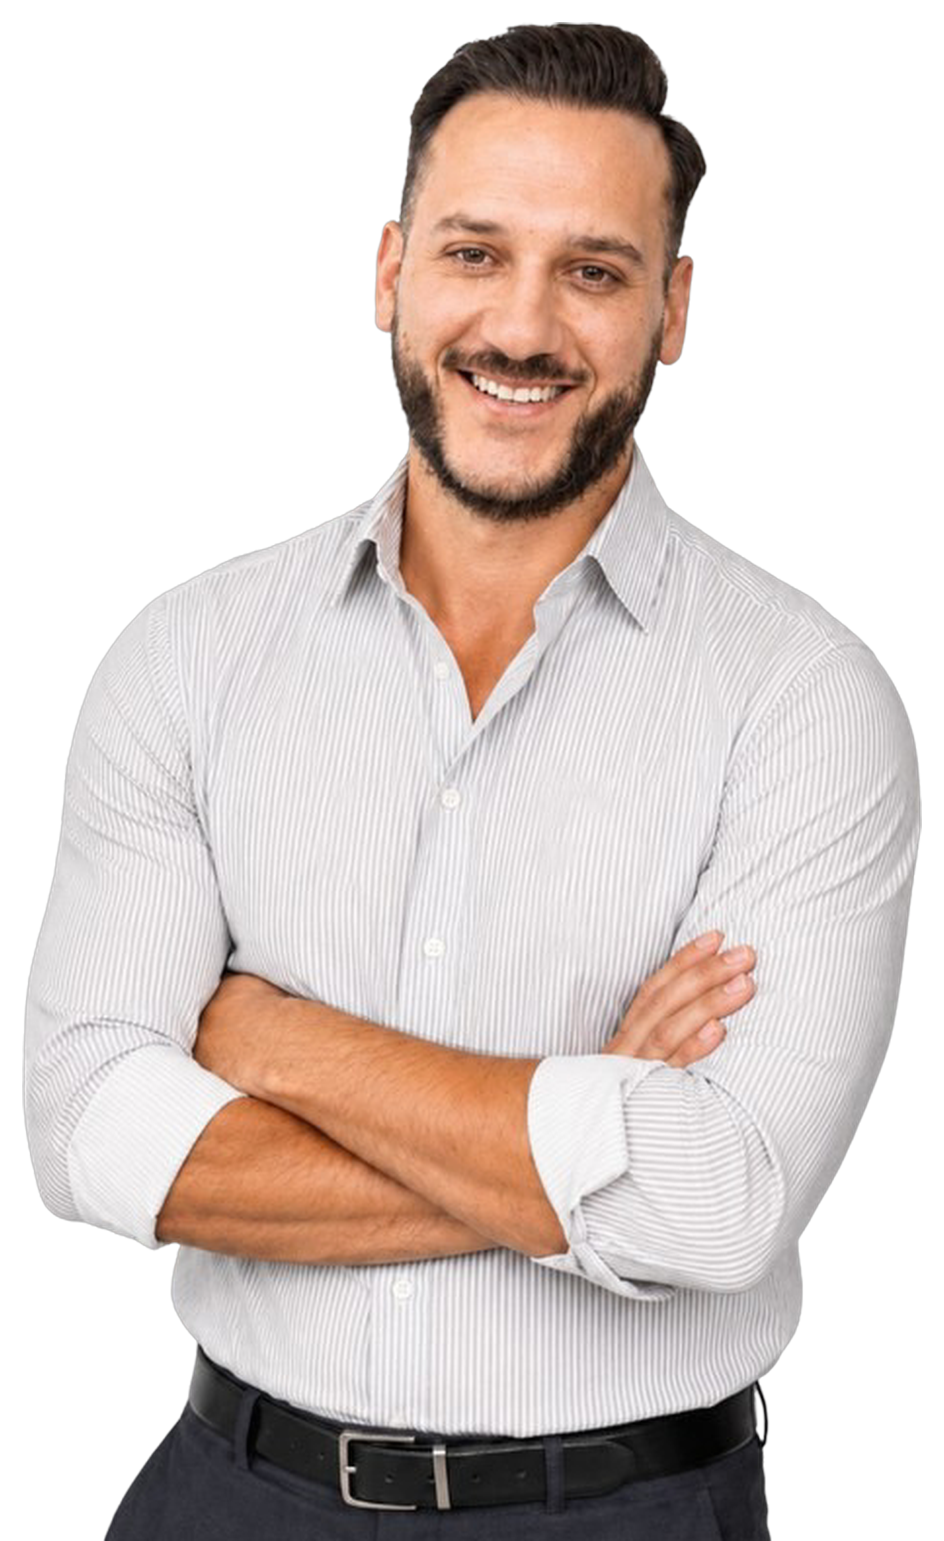
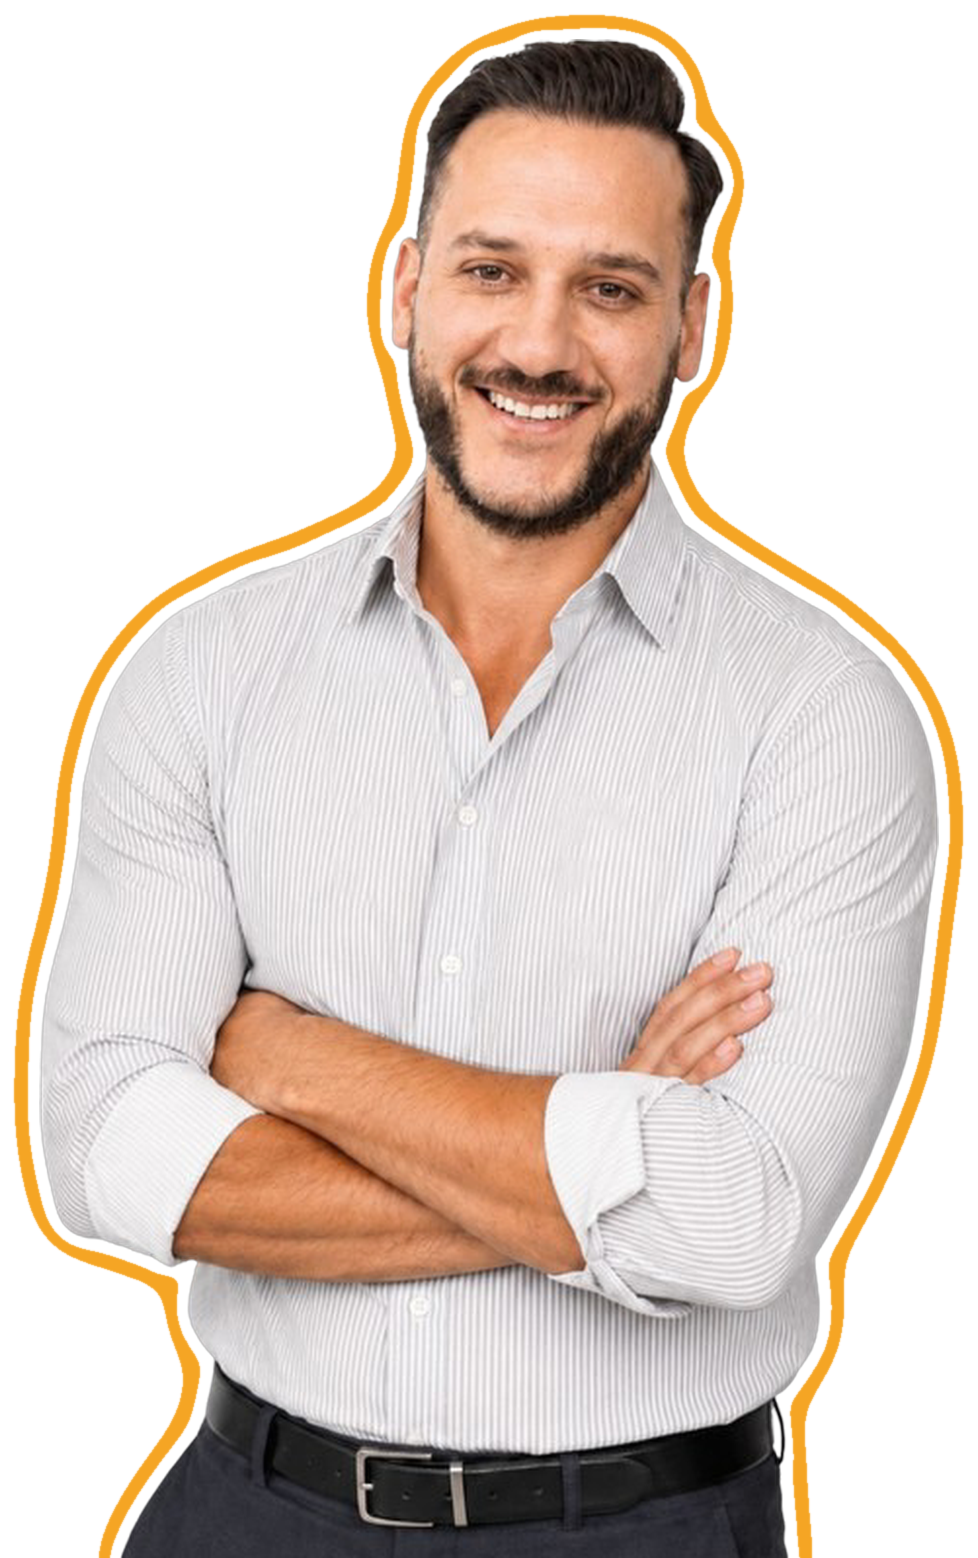
Preise: Portrait mit doppelter Kontur, weiss innen und amber aussen
Beide Ringe stecken in der Bilddatei: die Alphamaske wird zweimal
aufgeweitet, gemessen je 14 px auf 978 px Breite, bei 328 px
Anzeigebreite also je 4,7 px. Als Filterkette gestapelt franst so eine
Linie an Kragen und verschraenkten Unterarmen aus.

Die Leinwand waechst dadurch von 944x1541 auf 978x1558. Das
Seitenverhaeltnis ist an genau einer Stelle fest verdrahtet und wandert
mit: 0,6126 auf 0,6277. Ohne das passte der Kasten nicht mehr zum Motiv
und die Unterkante stuende nicht mehr buendig auf der Kartenkante.

Der weisse Schein ist aus dem Filter raus. Er laege ausserhalb des
amberen Rings und zoege ihn zu; der Schein bleibt amber und weich
dahinter.

Gemessen bei 1440 und 1200: Verhaeltnis 0,6277 wie vorgegeben, unten
buendig auf 0,00 px, keine Ueberlappung mit der Karte Wachstum, kein
waagrechter Ueberlauf, null Konsolenfehler.

diff --git a/stil.css b/stil.css
@@ -3483,10 +3483,21 @@ body.langtakt .preis__neu{font-size:1em;opacity:1}
    sind gemessen nur 8,6 px frei, dort ist nichts zu holen. Mit
    height:100% kann das Motiv die Zeile nie mehr verlassen. */
 .erst__foto{position:absolute;left:0;bottom:0;height:100%;
-  aspect-ratio:944 / 1541;
+  /* 20.09.2026, Dusans Vorlage: doppelte Kontur, weiss innen, amber
+     aussen. Beide stecken in der Bilddatei (Alphamaske zweimal
+     aufgeweitet), darum ist die Leinwand von 944x1541 auf 978x1558
+     gewachsen. Das Verhaeltnis MUSS hier mitwandern, sonst passt der
+     Kasten nicht mehr zum Motiv und die Unterkante steht nicht mehr
+     buendig auf der Kartenkante. Gemessene Baender: je 14 px, bei
+     328 px Anzeigebreite also je 4,7 px. */
+  aspect-ratio:978 / 1558;
   background:url("bilder/erst-person-900.webp") bottom center/contain no-repeat;
-  filter:drop-shadow(0 0 30px rgb(255 255 255 / .4))
-         drop-shadow(0 0 80px rgb(245 165 36 / .45));
+  /* Der weisse Schein ist raus: er laege AUSSERHALB des amberen Rings
+     und zoege ihn zu. Die Kante wird jetzt in der Datei gezeichnet,
+     der Schein bleibt weich dahinter — dieselbe Rezeptur wie sonst
+     auf der Seite. */
+  filter:drop-shadow(0 0 34px rgb(245 165 36 / .5))
+         drop-shadow(0 0 90px rgb(245 165 36 / .4));
   pointer-events:none}
 /* Die weisse Kontur steckt IN der Bilddatei: die Alphamaske wurde
    aufgeweitet und weiss hinterlegt, gemessen 13 px auf 944 px Breite
